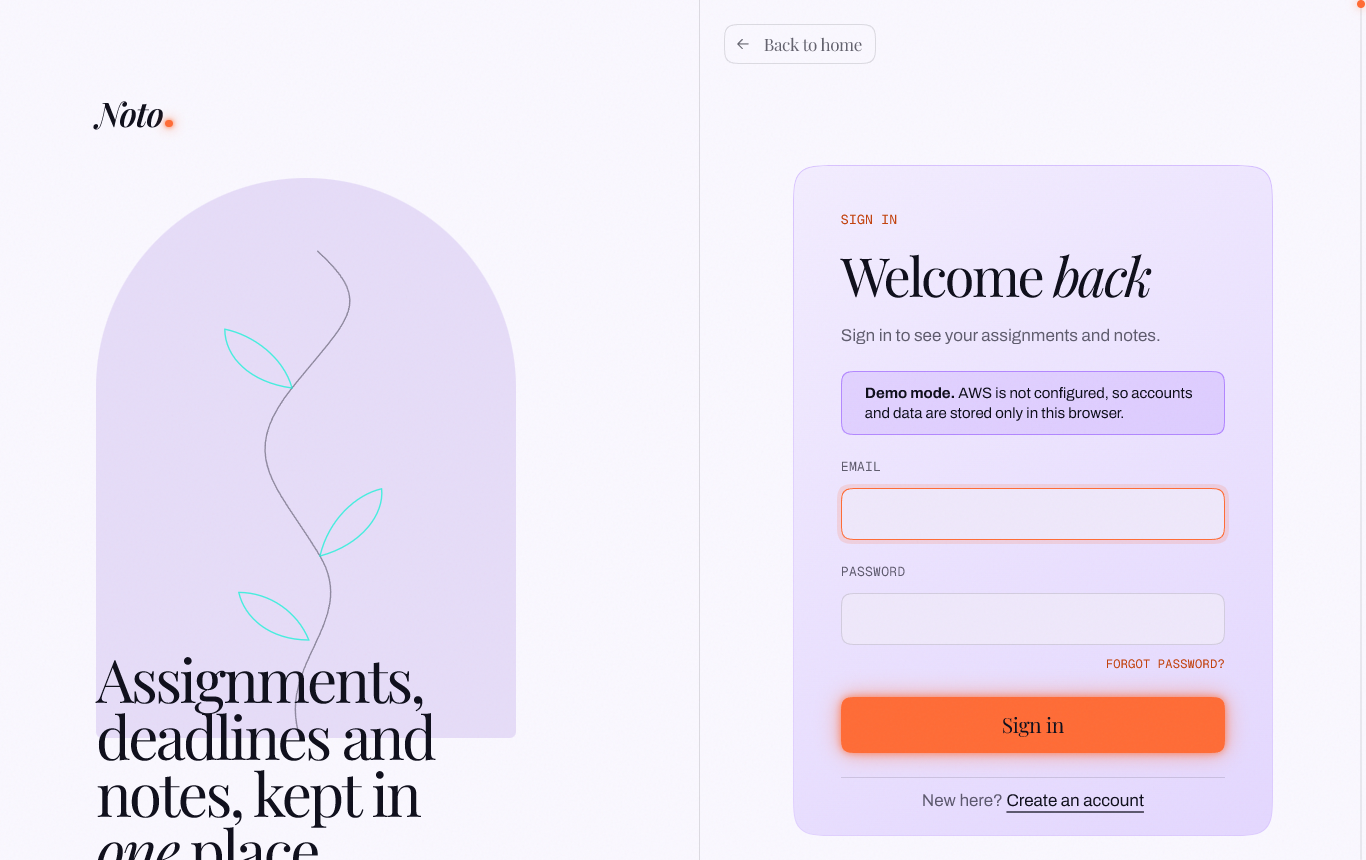
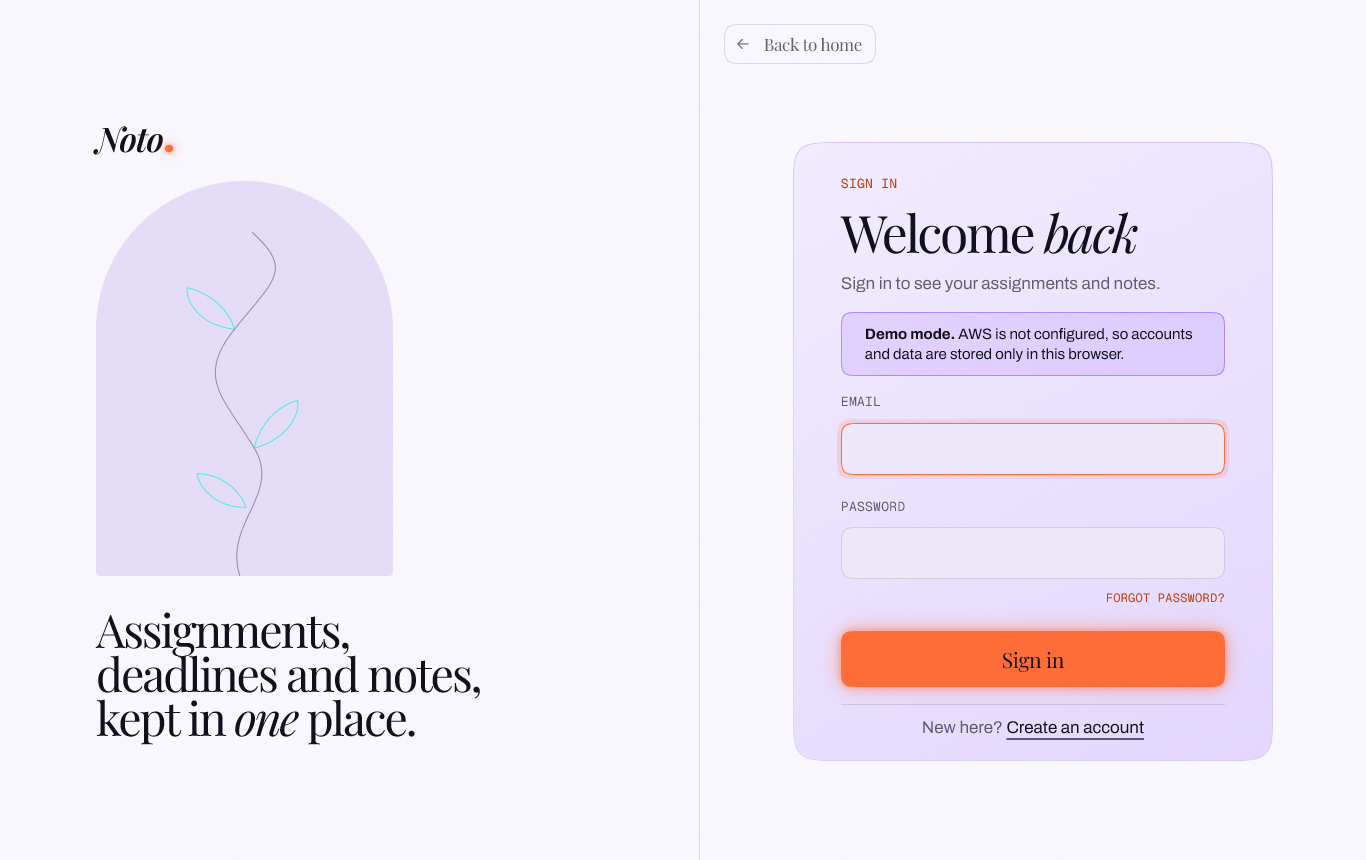
test+docs: round 5 checks (landing motion 41, demo E2E 38), changelog, context and handoff

diff --git a/frontend/src/styles/global.css b/frontend/src/styles/global.css
@@ -595,6 +595,7 @@ textarea {
   font-style: italic;
   font-weight: 600;
   letter-spacing: -0.02em;
+  text-transform: none; /* the name keeps its case inside upper-case labels */
 }
 
 /* ---------- Buttons: tactile press physics ---------- */

diff --git a/CHANGELOG.md b/CHANGELOG.md
@@ -5,6 +5,43 @@ Format based on [Keep a Changelog](https://keepachangelog.com/en/1.1.0/).
 
 ## [Unreleased]
 
+### Changed (round 5, branch `feature/landing-round5`, not deployed)
+
+Full list with notes per item in `LANDING_TASKS.md` (Round 5).
+
+- **Intro.** Only the big "Noto" word starts grey (a greyed copy of its letters, synced to their
+  rise); after the dot's last bounce one ripple from the dot gives the word its colour back. The
+  rest of the page is in colour from the start. The dot's glow no longer snaps darker when its
+  breathing starts.
+- **Landing layout.** One section gap everywhere (`--l-section` 5rem, About pulled up into the
+  intro's empty half screen), fuller About text and feature cards, the hero headline a little
+  higher. "How it works" is back to the text and diagram under each step's title, with 01–04 in
+  equal quarters. "Inside the app" rows become a card with an orange title on hover. The closing
+  "Sign in" button is gone and the footer credit is centred. The AWS tiles lose their orbs for one
+  soft orange-to-purple tint inside the tiles, and their headers line up. Night's scroll orbs use
+  Day's orange and dark purple, swapped (purple left, orange right). "Noto" in running text is set
+  in the logo's Playfair italic (`NotoWord.jsx`).
+- **Signed in.** `/` opens the dashboard when signed in; the sidebar has **Home** (left of Sign
+  out) to `/home`, the landing page for everyone, which shows "Signed in" with the account's
+  initial and a menu (Dashboard, Assignments, Subjects, Notes, Sign out) in place of Sign in /
+  Create account.
+- **App.** Theme is Day or Night only (no System) and switches with the landing page's circle
+  reveal (`switchTheme`). Sign-up asks for a name (Cognito's standard `name` attribute); the
+  greeting uses it, and accounts without one are asked once on the dashboard. Subjects get a
+  colour picker (six colours) when added. The completion meter's spring stays inside its track at
+  100%. The dashboard's lower panels sit on the page (no second-shade band). Button and dot glows
+  are 20% softer. The sign-in page fits one screen (the three bullet points are gone, the heading
+  sits under the arch).
+- **Backend.** `POST /subjects` accepts an optional `color` (one of `SUBJECT_COLORS`). Not deployed:
+  until the Lambda is updated, the live API ignores it and the app remembers the pick in the browser.
+
+### Tests (round 5)
+
+- Landing motion 41 checks (was 38): the grey wordmark only, the ripple after the last bounce, the
+  swapped Night orbs, the AWS tint and aligned headers, steps under their titles, the row hover
+  card, the footer. Demo E2E 38 checks (was 34): Day/Night only, Home, the account menu, opening
+  into the dashboard. Backend 37 (subject colour test), frontend unit 20. All passing locally.
+
 ### Changed (landing round 4, branch `feature/landing-round4`, not deployed)
 
 - **First-load intro.** The landing page now opens in grey (Day: white, greys and black; Night:

diff --git a/PROJECT_CONTEXT.md b/PROJECT_CONTEXT.md
@@ -2,7 +2,7 @@
 
 ## Resume Here (read first)
 
-Last session: 2026-10-11. Landing round 4 (grey first-load intro with a falling dot and a colour ripple, evenly spaced "How it works", no top-left ball, no hover on "Inside the app", copy without "student"/"project", "Back to home" on sign-in pages) is on branch **`feature/landing-round4`**, pushed to GitHub, **not merged and not deployed**: the owner reviews it locally first (`npm run dev`) and will ask for more changes. Verified locally: landing motion 38/38, demo E2E 34/34, frontend unit 19/19. Before that, 2026-10-10: "Forgot password" (`/reset`) added, merged into `main` and deployed; self-service sign-up and reset verified on the live pool (live API 44/44). Landing round 3 (continuous purple flow, new orbs, HUD, scroll pin, theme-matched screenshots; see `LANDING_TASKS.md`) is merged into `main`, pushed and **deployed to Amplify**; verified live (landing motion 32/32, live site 17/17). **Noto is online:** https://main.dg6fh880g1p8b.amplifyapp.com (AWS Amplify Hosting, HTTPS) against the live
+Last session: 2026-10-11. **Round 5** (19 owner changes across the landing page and the app: grey intro only on the wordmark, even section spacing, steps under titles, row hover cards, AWS tint inside tiles, swapped Night orbs, Noto in the logo face, Home button and signed-in landing menu, `/` opens the dashboard when signed in, Day/Night only with the circle switch, real names from sign-up, subject colours, softer glows, one-screen sign-in, contained meter) is on branch **`feature/landing-round5`** (from round 4), pushed, **not merged and not deployed**; checklist and notes in `LANDING_TASKS.md` (Round 5). Verified locally: landing motion 41/41, demo E2E 38/38, backend 37/37, frontend unit 20/20. The subject-colour backend change needs a Lambda deploy before colours sync across devices (ask first). Landing round 4 (grey first-load intro with a falling dot and a colour ripple, evenly spaced "How it works", no top-left ball, no hover on "Inside the app", copy without "student"/"project", "Back to home" on sign-in pages) is on branch **`feature/landing-round4`**, pushed to GitHub, **not merged and not deployed**: the owner reviews it locally first (`npm run dev`) and will ask for more changes. Verified locally: landing motion 38/38, demo E2E 34/34, frontend unit 19/19. Before that, 2026-10-10: "Forgot password" (`/reset`) added, merged into `main` and deployed; self-service sign-up and reset verified on the live pool (live API 44/44). Landing round 3 (continuous purple flow, new orbs, HUD, scroll pin, theme-matched screenshots; see `LANDING_TASKS.md`) is merged into `main`, pushed and **deployed to Amplify**; verified live (landing motion 32/32, live site 17/17). **Noto is online:** https://main.dg6fh880g1p8b.amplifyapp.com (AWS Amplify Hosting, HTTPS) against the live
 AWS backend.
 
 | Item | State |

diff --git a/HANDOFF.md b/HANDOFF.md
@@ -23,7 +23,8 @@ For detail, read `PROJECT_CONTEXT.md` next, then `CLAUDE.md` (the project rules)
 - The backend and the website are verified live by automated tests.
 - Optional extras are done too: search, filters, sorting, dark mode, upload progress, a public landing page.
 - Still open: sign-up with a real email through the UI, the alert email, CloudFront, console screenshots.
-- Landing page round 4 (grey intro and colour ripple, spaced-out steps, copy and nav fixes) is on branch `feature/landing-round4`, pushed but not merged or deployed; the owner is reviewing it locally.
+- Landing page round 4 (grey intro and colour ripple, spaced-out steps, copy and nav fixes) is on branch `feature/landing-round4`, pushed but not merged or deployed.
+- Round 5 (19 owner changes, landing page and app) is on `feature/landing-round5` (built on round 4), pushed but not merged or deployed; the owner is reviewing it locally. Checklist: `LANDING_TASKS.md`, Round 5. Its `POST /subjects` colour field is not on the live Lambda yet.
 - Landing page round 3 (one continuous purple flow, new orbs, glass HUD, orange scroll pin, theme-matched screenshots) is merged into `main` and deployed (2026-10-10, verified live); every task and its notes are in `LANDING_TASKS.md`.
 
 ## Architecture
@@ -59,9 +60,9 @@ For detail, read `PROJECT_CONTEXT.md` next, then `CLAUDE.md` (the project rules)
 ## Test it
 
 - Backend unit: `cd backend && npm test` (36/36).
-- Frontend unit: `cd frontend && npm test` (19/19).
-- Demo end-to-end: `cd e2e && npm test` (34/34). It needs a dev server in demo mode; set `E2E_BASE_URL` if that server is not on 5173.
-- Landing motion: `node e2e/landing-motion.mjs` with a dev server running (38/38).
+- Frontend unit: `cd frontend && npm test` (20/20).
+- Demo end-to-end: `cd e2e && npm test` (38/38). It needs a dev server in demo mode; set `E2E_BASE_URL` if that server is not on 5173.
+- Landing motion: `node e2e/landing-motion.mjs` with a dev server running (41/41).
 - Live API: `node e2e/live-api.mjs` (44/44). Live website: `node e2e/live-site.mjs` (17/17).
 - The live tests create and delete their own temporary Cognito users.
 - Run the landing motion test against production with `E2E_BASE_URL=https://main.dg6fh880g1p8b.amplifyapp.com`.

diff --git a/LANDING_TASKS.md b/LANDING_TASKS.md
@@ -240,7 +240,7 @@ agent can resume from the first `[ ]`. Same rules as above (no new dependencies,
   the dashboard. The landing page shows only when the user clicks Home (or is signed out).
 - [x] **R5-19. Night orbs.** In Night the scroll orbs use the same orange and dark purple as Day,
   but swapped: purple on the left, orange on the right.
-- [ ] **R5-20. Wrap-up.** Update the E2E checks, run all tests, update CHANGELOG / PROJECT_CONTEXT /
+- [x] **R5-20. Wrap-up.** Update the E2E checks, run all tests, update CHANGELOG / PROJECT_CONTEXT /
   HANDOFF, commit and push the branch, run locally. No Amplify deploy, no merge.
 
 ### Round 5 notes
@@ -303,3 +303,8 @@ agent can resume from the first `[ ]`. Same rules as above (no new dependencies,
   (phone menu too); About's CTA and the footer's Account column switch to app links.
 - R5-18: `/` = dashboard when signed in, landing when signed out; `/home` = landing for everyone
   (App.jsx). Sign-in still lands on the dashboard.
+- R5-20: landing-motion.mjs 41/41 (new: grey wordmark only, ripple after the last bounce, swapped
+  Night orbs, AWS tint + aligned headers, steps under titles, row hover card, centred footer);
+  run.mjs 38/38 on a demo server (name field; Day/Night only; Home; account menu; `/` opens the
+  dashboard); backend 37/37; frontend unit 20/20; production build OK. Docs updated (CHANGELOG,
+  PROJECT_CONTEXT, HANDOFF, CLAUDE.md). Branch pushed; not merged, not deployed.

diff --git a/CLAUDE.md b/CLAUDE.md
@@ -3118,7 +3118,7 @@ File Storage: S3 presigned upload/download verified live
 API: HTTP API + JWT authorizer deployed and verified
 Monitoring: Log groups, alarms, dashboard deployed; alert email/budget not yet configured
 Deployment: deploy.ps1 (-NoCloudFront until the account is verified; the site is then hosted on Amplify)
-Testing: 36 backend + 19 frontend unit, 34-check demo E2E, 38-check landing motion, 44-check live API, 17-check live website, all passing
+Testing: 37 backend + 20 frontend unit, 38-check demo E2E, 41-check landing motion, 44-check live API, 17-check live website, all passing
 Documentation: Complete; PROJECT_CONTEXT.md has the deployed resource list
 ```
 
